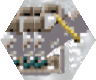
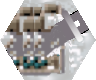
Map 2 content filled up

Changed region(s): [[0.5625, 0.125, 0.9375, 0.575], [0.125, 0.775, 0.1875, 0.875], [0.0625, 0.625, 0.125, 0.7]]

diff --git a/hlrData.py b/hlrData.py
@@ -988,7 +988,7 @@ class HexSquare():
 		self.movementModifier = bgTilesModifiers[hexType][0]
 		self.battleModifier = bgTilesModifiers[hexType][1]
 		self.sightModifier = bgTilesModifiers[hexType][2]
-		if hexType == 'hqN':
+		if hexType == 'hqN' or hexType == 'hqN_w':
 			self.name = "Headquarters"
 			self.picture = pygame.image.load('gfx/units/pictures/hq.png')
 			self.owner = content[0] if content else 0       # 0 for None, 1 for Entente, 2 for CP 
@@ -997,9 +997,18 @@ class HexSquare():
 				for unit in content[1]:
 					self.content.addUnit(Unit(unit))
 			self.updateDepotColours(self.owner)
-		elif hexType == 'cmpN':
+		elif hexType == 'cmpN' or hexType == 'cmpN_w':
 			self.name = "Depot"
 			self.picture = pygame.image.load('gfx/units/pictures/storage.png')
+			self.owner = content[0] if content else 0       # 0 for None, 1 for Entente, 2 for CP 
+			self.content = Content(40)
+			if content and len(content) == 2:
+				for unit in content[1]:
+					self.content.addUnit(Unit(unit))
+			self.updateDepotColours(self.owner)
+		elif hexType == 'factoryE' or hexType == 'factoryE_w':
+			self.name = "Factory"
+			self.picture = pygame.image.load('gfx/units/pictures/factory.png')
 			self.owner = content[0] if content else 0       # 0 for None, 1 for Entente, 2 for CP 
 			self.content = Content(40)
 			if content and len(content) == 2:
@@ -1029,12 +1038,16 @@ class HexSquare():
 				self.battleModifier = 10
 
 
-	def updateDepotColours(self, _owner):     # 0: None, 1: CentralPowers, 2: Allies
+	def updateDepotColours(self, _owner, factory = False):     # 0: None, 1: CentralPowers, 2: Allies
 		""" overwrites the colours on the depot/HQ hex """
 		colImage = pygame.image.load('gfx/hexTypes/depotOwnership.png')
 		cutoutImage = colImage.subsurface((0, _owner * 6, 35, 6))
 		_bg = self.background.copy()
-		_bg.blit(cutoutImage, (31, 14))
+		if self.name == "Factory":
+			rotImage = pygame.transform.rotate(cutoutImage, -60)
+			_bg.blit(rotImage, (61, 9))
+		else:
+			_bg.blit(cutoutImage, (31, 14))
 		self.background = _bg
 		# colour units in depot if not owned
 		for y in range(9):

diff --git a/main.py b/main.py
@@ -308,8 +308,9 @@ obj =  Main(args)
 # - Move in turns
 # 	- must win if HQ taken
 # - create opponenet AI
+# - adjust unit horizontal movement (map displacemnt not adjusted)
 
-
+# - units should not have a nationality in type, at least not all
 
 
 
